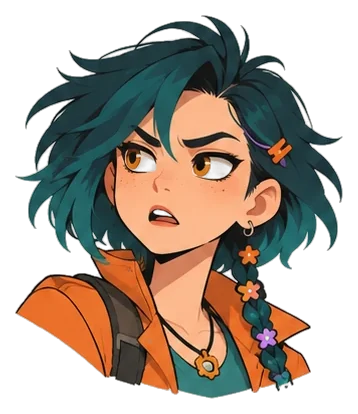
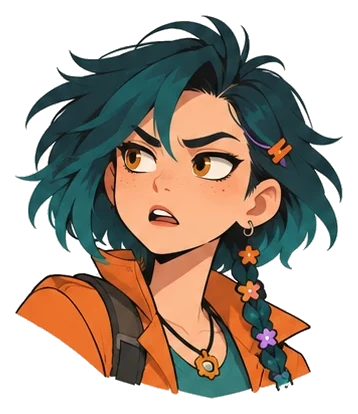
Fix Hana's eyes, typing while a call rings, and stale offline updates
- Re-cut all Hana and Bit images: the eye whites, teeth and other light
  details were being made see-through along with the background. Only
  the outer rim is now softened, and trapped background gaps are removed.
- Typing a message while a call is still ringing no longer crashes; it
  waits until Hana picks up.
- The service worker is now network-first, so app updates appear on the
  next launch instead of the one after; it still works fully offline.

Claude-Session: https://claude.ai/code/session_01BaU86ytT7sNgb4rmE1W9wG

diff --git a/www/sw.js b/www/sw.js
@@ -1,6 +1,6 @@
 // Offline support: everything the app needs is cached on install, so lessons, chess and
-// Hana all work with no connection. Cache-first, refreshed in the background when online.
-const CACHE = 'sprout-v7';
+// Hana all work with no connection.
+const CACHE = 'sprout-v8';
 const SHELL = [
  "./",
  "css/fonts.css",
@@ -64,14 +64,20 @@ self.addEventListener('install', (e) => {
 self.addEventListener('activate', (e) => {
   e.waitUntil(caches.keys().then((keys) => Promise.all(keys.filter((k) => k !== CACHE).map((k) => caches.delete(k)))).then(() => self.clients.claim()));
 });
+// Network first (so updates show up straight away), falling back to the cache when
+// offline or when the connection is too slow to answer within a few seconds.
 self.addEventListener('fetch', (e) => {
-  if (e.request.method !== 'GET') return;
-  e.respondWith(caches.open(CACHE).then(async (cache) => {
-    const hit = await cache.match(e.request, { ignoreSearch: true });
-    const net = fetch(e.request).then((res) => {
-      if (res.ok || res.type === 'opaque') cache.put(e.request, res.clone());
+  const req = e.request;
+  if (req.method !== 'GET' || new URL(req.url).origin !== self.location.origin) return;
+  e.respondWith((async () => {
+    const cache = await caches.open(CACHE);
+    try {
+      const res = await Promise.race([fetch(req), new Promise((_, no) => setTimeout(() => no(new Error('slow')), 4000))]);
+      if (res.ok) cache.put(req, res.clone());
       return res;
-    }).catch(() => hit || (e.request.mode === 'navigate' ? cache.match('index.html') : undefined));
-    return hit || net;
-  }));
+    } catch {
+      const hit = await cache.match(req, { ignoreSearch: true });
+      return hit || (req.mode === 'navigate' ? cache.match('index.html') : Response.error());
+    }
+  })());
 });

diff --git a/www/js/call.js b/www/js/call.js
@@ -9,6 +9,8 @@ let C = null;
 
 export function startCall(callbacks) {
   C = { cb: callbacks, started: 0, timer: null, listening: false, speaking: null, typing: !canListen(), captions: [], mood: 'happy', ended: false, muted: !S.voice };
+  // Messages typed while it's still ringing wait here until Hana picks up and has said hello.
+  C.queue = new Promise((r) => { C.pickUp = r; });
   render(); ring();
 }
 export const callActive = () => !!C;
@@ -103,9 +105,10 @@ async function connect() {
   C.timer = setInterval(() => { const el = document.getElementById('call-time'); if (el && C) el.textContent = fmt(Math.round((Date.now() - C.started) / 1000)); }, 1000);
   render();
   C.tutor = createTutor({ say: speakLine, action: onAction });
-  C.queue = C.tutor.greet();
-  await C.queue;
-  autoListen();
+  const call = C;
+  call.pickUp(call.tutor.greet());
+  await call.queue;
+  if (C === call) autoListen();
 }
 
 // Hana or Bit speaks a line (with captions, mood and speaking rings).
@@ -133,7 +136,7 @@ function heard(text) {
   if (!C || !text?.trim()) return;
   addCaption('you', text.trim());
   const call = C;
-  call.queue = (call.queue || Promise.resolve()).then(async () => { if (C === call && !call.ended) await call.tutor.hear(text.trim()); });
+  call.queue = call.queue.then(async () => { if (C === call && !call.ended) await call.tutor?.hear(text.trim()); }).catch(() => {});
   return call.queue.then(() => { if (C === call) autoListen(); });
 }
 
